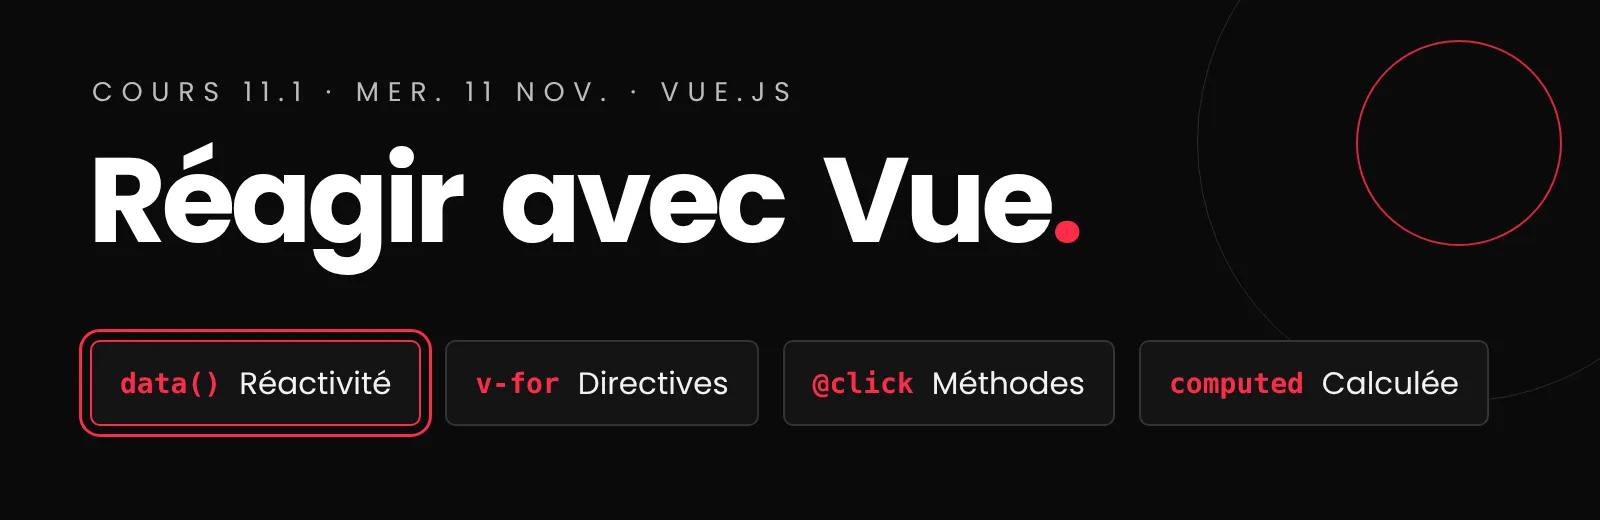
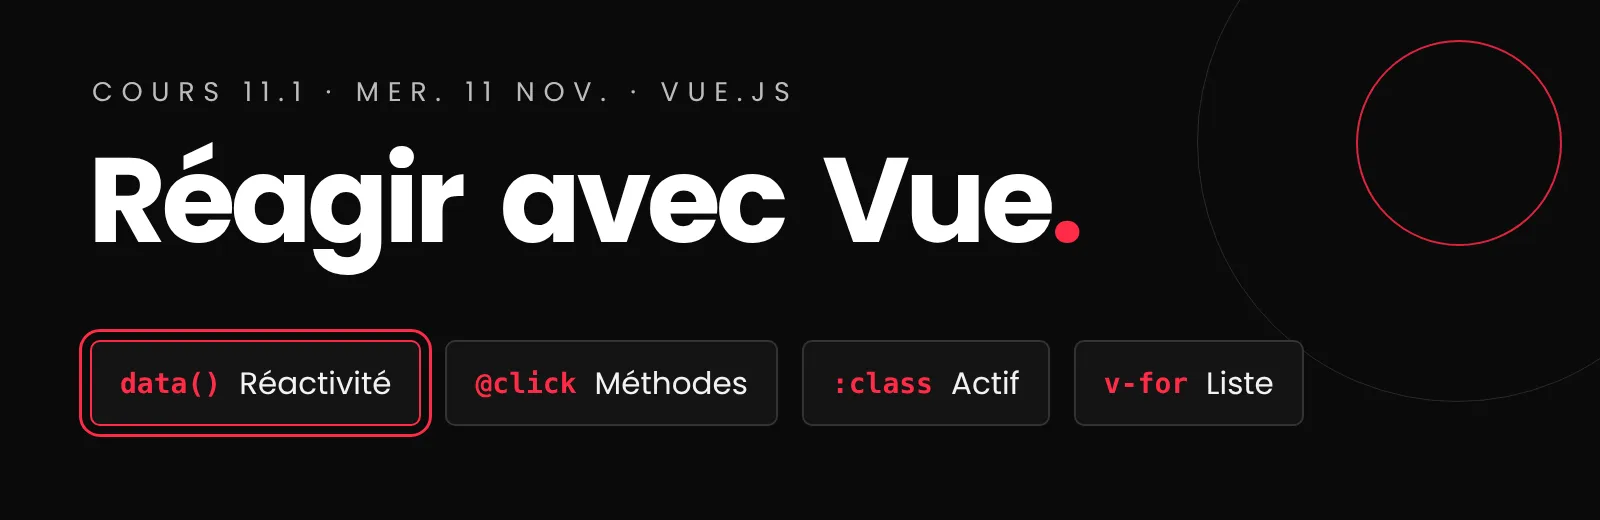
réduction de vue

diff --git a/docs/582-511-web5/projets/recit-defilant/composant-vue.md b/docs/582-511-web5/projets/recit-defilant/composant-vue.md
@@ -4,7 +4,7 @@
 <p class="essentiel__titre">L'essentiel en 3 points</p>
 
 1. Avec Vue, **on change une donnée, et la page suit**. Plus besoin d'ajouter ou de retirer des classes à la main : on décrit le HTML une fois, Vue le tient à jour.
-2. Votre composant tient dans **un seul fichier**, `js/navigation.js`, avec quatre parties : `data`, `computed`, `methods` et `mounted`.
+2. Votre composant tient dans **un seul fichier**, `js/navigation.js`, avec trois parties : `data`, `methods` et `mounted`.
 3. Il fonctionne aux deux phases : à la *phase 1*{ .w5-phase .w5-phase-1 }, la liste des chapitres est **lue dans le HTML**; à la *phase 2*{ .w5-phase .w5-phase-2 }, elle vient de **`data.json`**. Le composant, lui, ne change pas.
 
 </div>
@@ -25,6 +25,8 @@ function setActive(index) {
   title.textContent = chapters[index].titre;
 }
 ```
+
+<iframe src="https://tim-montmorency.com/Fragment/v/?f=w5-vue-oubli-actif&onglets=js,html,css,resultat&modifiable=1&boutons=rejouer,ouvrir" style="width:100%;height:520px;border:0" loading="lazy"></iframe>
 
 Voyez-vous l'oubli? La classe `actif` n'est jamais retirée des anciens liens. Après trois chapitres, trois liens sont en rouge. C'est le piège du code qui dit *comment* : chaque chose qu'on ajoute, il faut aussi penser à l'enlever.
 
@@ -64,7 +66,6 @@ Le composant vit dans une **zone** de `index.html`, ici `<div id="navigation">`.
 
   <!-- Le navigateur de chapitres -->
   <nav class="chapitres-nav" aria-label="Chapitres">
-    <p class="chapitres-nav__actuel">{{ activeTitle }}</p>
     <ol>
       <li v-for="(chapter, index) in chapters" :key="chapter.id">
         <a :href="'#' + chapter.id"
@@ -83,7 +84,7 @@ Ce HTML contient tout ce qu'il faut savoir de Vue pour votre composant :
 
 | Dans le HTML | Nom | Ce que ça fait |
 |---|---|---|
-| `{{ activeTitle }}` | Interpolation | Affiche la valeur d'une donnée. Quand elle change, le texte change. |
+| `{{ chapter.titre }}` | Interpolation | Affiche la valeur d'une donnée. Quand elle change, le texte change. |
 | `v-for="... in chapters"` | Directive `v-for` | Répète l'élément pour chaque chapitre du tableau. C'est le `forEach` de Vue, directement dans le HTML. |
 | `:key="chapter.id"` | Clé | Un identifiant unique par élément répété : Vue s'en sert pour s'y retrouver. |
 | `:class="{ actif: ... }"` | Classe dynamique | Ajoute la classe `actif` **si** la condition est vraie, et la retire sinon. |
@@ -102,7 +103,7 @@ Le CSS qui va avec `v-cloak`, dans `commun.css` :
 }
 ```
 
-## Le JavaScript : un fichier, quatre parties { #js }
+## Le JavaScript : un fichier, trois parties { #js }
 
 Le composant, au complet, dans `js/navigation.js` :
 
@@ -121,16 +122,7 @@ export function createNavigation(chapters) {
       };
     },
 
-    // 2. Les propriétés calculées : déduites des données
-    computed: {
-      activeTitle() {
-        const chapter = this.chapters[this.activeIndex];
-        return `${this.activeIndex + 1}/${this.chapters.length} · `
-          + chapter.titre;
-      },
-    },
-
-    // 3. Les méthodes : les actions
+    // 2. Les méthodes : les actions
     methods: {
       goTo(id) {
         const reduced = window.matchMedia(
@@ -158,7 +150,7 @@ export function createNavigation(chapters) {
       },
     },
 
-    // 4. Au démarrage du composant
+    // 3. Au démarrage du composant (à copier tel quel)
     mounted() {
       window.addEventListener("scroll", this.updateScroll, {
         passive: true,
@@ -169,37 +161,23 @@ export function createNavigation(chapters) {
 }
 ```
 
-### Les quatre parties, une à une { #quatre-parties }
+### Les trois parties, une à une { #quatre-parties }
 
 **`createApp({...}).mount("#navigation")`** crée le composant et le **branche** sur la zone `#navigation` du HTML. Le sélecteur fonctionne comme avec `querySelector`.
 
 **`data()`** retourne un objet : **les données qui peuvent changer**. Chaque fois que `activeIndex` ou `progress` change, Vue met à jour tout ce qui en dépend dans le HTML. Vous ne touchez jamais au DOM vous-même.
 
-**`computed`** : des valeurs **déduites** des données. `activeTitle` dépend de `activeIndex` : Vue la recalcule seulement quand `activeIndex` change. Dans le HTML, on l'utilise comme une donnée : `{{ activeTitle }}`, sans parenthèses.
-
 **`methods`** : les **actions**, appelées par un événement (`@click`) ou par votre code. Dans une méthode, `this.chapters`, `this.activeIndex` : ce sont les données de `data()`.
 
-**`mounted()`** s'exécute **une fois**, quand le composant est branché sur la page. C'est le bon endroit pour écouter le défilement. On appelle aussi `updateScroll()` tout de suite, pour le cas où la page est déjà défilée au chargement.
+**`mounted()`** s'exécute **une fois**, quand le composant est branché sur la page. C'est le bon endroit pour écouter le défilement. On appelle aussi `updateScroll()` tout de suite, pour le cas où la page est déjà défilée au chargement. Ce bloc, vous pouvez le copier tel quel.
 
 !!! warning "`this` dans Vue : pas de fonction fléchée dans `methods`"
-    Dans `data`, `computed` et `methods`, `this` désigne **le composant**. Écrivez donc vos méthodes avec la forme courte `goTo(id) { ... }`, jamais `goTo: (id) => { ... }` : une [fonction fléchée](../../js/recap-js.md#fonctions-flechees) n'a pas son propre `this`, et `this.chapters` serait `undefined`.
+    Dans `data` et `methods`, `this` désigne **le composant**. Écrivez donc vos méthodes avec la forme courte `goTo(id) { ... }`, jamais `goTo: (id) => { ... }` : une [fonction fléchée](../../js/recap-js.md#fonctions-flechees) n'a pas son propre `this`, et `this.chapters` serait `undefined`.
 
     À l'intérieur d'une méthode, par contre, la fonction fléchée est la bonne : dans le `forEach` de `updateScroll()`, elle **garde** le `this` du composant.
 
 !!! info "Une classe JS, en plus guidé"
     Vous connaissez les classes JavaScript : des propriétés (`this.score`), des méthodes, un constructeur. Le composant Vue, c'est la même idée : `data()` pour les propriétés, `methods` pour les méthodes, `mounted()` pour le démarrage.
-
-## La propriété calculée : pourquoi pas une méthode? { #computed }
-
-On aurait pu écrire une méthode `getActiveTitle()` et l'appeler dans le HTML : `{{ getActiveTitle() }}`. Ça fonctionne aussi. La différence :
-
-| | Méthode | Propriété calculée |
-|---|---|---|
-| Recalculée | à **chaque** mise à jour de la page | **seulement** quand ses données changent |
-| Dans le HTML | `{{ getActiveTitle() }}` | `{{ activeTitle }}` |
-| Sert à | **faire** quelque chose (une action) | **obtenir** une valeur déduite |
-
-Règle simple : si ça **retourne une valeur** à afficher, c'est une propriété calculée. Si ça **fait** quelque chose, c'est une méthode.
 
 ## Brancher le composant dans `main.js` { #brancher }
 
@@ -274,39 +252,56 @@ Un point de départ, à mettre à votre image : votre palette, votre typographie
 
 La barre utilise `transform: scaleX()` plutôt que `width` : `transform` ne recalcule pas la mise en page, l'animation reste fluide.
 
+## Pour aller plus loin : une propriété calculée (facultatif) { #computed }
+
+Pour afficher le titre du chapitre actif, par exemple « 3/8 · Le loup », ajoutez une **propriété calculée** : une valeur **déduite** des données, que Vue recalcule seulement quand elles changent.
+
+```js
+    computed: {
+      activeTitle() {
+        const chapter = this.chapters[this.activeIndex];
+        return `${this.activeIndex + 1}/${this.chapters.length} · `
+          + chapter.titre;
+      },
+    },
+```
+
+```html
+<p class="chapitres-nav__actuel">{{ activeTitle }}</p>
+```
+
+Dans le HTML, on l'utilise comme une donnée, sans parenthèses. Voir [Propriété calculée](../../vue/propriete-calculee.md).
+
+
+
+Pourquoi pas une méthode? On aurait pu écrire une méthode `getActiveTitle()` et l'appeler dans le HTML : `{{ getActiveTitle() }}`. Ça fonctionne aussi. La différence :
+
+| | Méthode | Propriété calculée |
+|---|---|---|
+| Recalculée | à **chaque** mise à jour de la page | **seulement** quand ses données changent |
+| Dans le HTML | `{{ getActiveTitle() }}` | `{{ activeTitle }}` |
+| Sert à | **faire** quelque chose (une action) | **obtenir** une valeur déduite |
+
+Règle simple : si ça **retourne une valeur** à afficher, c'est une propriété calculée. Si ça **fait** quelque chose, c'est une méthode.
+
 ## Votre composant à vous { #votre-composant }
 
 Le composant imposé, c'est **le navigateur de chapitres ou la barre de progression**, au choix. La personne responsable est inscrite dans la matrice du cahier de charges.
 
 Prenez le code de cette page comme **départ**, puis faites-le vôtre :
 
-- **Navigateur seulement?** Retirez la barre et `progress`. **Barre seulement?** Une propriété calculée comme `percent` (« 38 % ») peut afficher la progression en texte.
+- **Navigateur seulement?** Retirez la barre et `progress`. **Barre seulement?** Retirez la liste, et gardez `progress`.
 - **Le style** : des points plutôt que des titres, des numéros de chapitre, une icône par chapitre (ajoutez une clé dans vos chapitres).
-- **Sur mobile** : le navigateur prend de la place. Affichez seulement `activeTitle`, et la liste au toucher (`v-if`, une donnée `isOpen`).
+- **Sur mobile** : le navigateur prend de la place. Affichez seulement le chapitre actif, et la liste au toucher (`v-if`, une donnée `isOpen`).
 
-Dans tous les cas, votre composant utilise **une donnée**, **une directive**, **une méthode** et **une propriété calculée** : c'est ce que vous devrez expliquer à la défense.
+Dans tous les cas, votre composant utilise **une donnée**, **une directive** (`v-for` ou `:class`) et **une méthode** : c'est ce que vous devrez expliquer à la défense.
 
 !!! tip "Avec ScrollTo, une extension GSAP"
     Dans `goTo()`, vous pouvez remplacer `scrollIntoView()` par [ScrollTo](../../js/gsap-scrollto.md) : il tient compte des sections épinglées, et la durée et l'*easing* se règlent. Chargez le plugin par CDN et enregistrez-le dans `main.js`.
 
 ## Options API et Composition API { #options-composition }
 
-Vue s'écrit de deux façons. Dans ce cours, on utilise **l'Options API** : des cases à remplir (`data`, `methods`...). Vous croiserez l'autre, la **Composition API**, dans la documentation et les tutoriels :
-
-```js
-// La même idée, en Composition API (pour reconnaître, pas à utiliser)
-const { createApp, ref, computed } = Vue;
-
-createApp({
-  setup() {
-    const activeIndex = ref(0);
-    const activeTitle = computed(() => `Chapitre ${activeIndex.value + 1}`);
-    return { activeIndex, activeTitle };
-  },
-}).mount("#navigation");
-```
-
-Les deux font exactement la même chose. Dans la [documentation de Vue](https://fr.vuejs.org/guide/introduction.html){ :target="_blank" }, choisissez **Options** dans le sélecteur *Préférence d'API*, en haut à gauche.
+Vue s'écrit de deux façons. Dans ce cours, on utilise **l'Options API** : des cases à remplir (`data`, `methods`...). Dans la [documentation de Vue](https://fr.vuejs.org/guide/introduction.html){ :target="_blank" }, choisissez **Options** dans le sélecteur *Préférence d'API*, en haut à gauche. Un tutoriel écrit avec `setup()` ou `ref()`? C'est la Composition API : cherchez-en un autre.
 
 ## Les erreurs fréquentes { #erreurs }
 

diff --git a/docs/582-511-web5/cours11a.md b/docs/582-511-web5/cours11a.md
@@ -11,23 +11,23 @@
 <div class="grid" markdown>
 
 <div class="card" markdown>
-:simple-vuedotjs: __Exercice : Tableau NBA__
-
----
-
-Votre première app Vue : des pointages, deux clics, une propriété calculée.
-
-[:octicons-arrow-right-24: L'exercice](exercices/ex-vue-nba/index.md){ .stretched-link }
-</div>
-
-<div class="card" markdown>
 :simple-vuedotjs: __Exercice : Collection de films__
 
 ---
 
-Une classe dynamique, puis une boucle `v-for` : un élément actif dans une liste.
+Les 4 notions de votre composant : données, clic, classe dynamique et `v-for`.
 
 [:octicons-arrow-right-24: L'exercice](exercices/ex-vue-films/index.md){ .stretched-link }
+</div>
+
+<div class="card" markdown>
+:material-animation-play-outline: __Vos chapitres__
+
+---
+
+Le plus gros du cours : animer vos chapitres pour le prototype.
+
+[:octicons-arrow-right-24: *Phase 1* : vos animations](projets/recit-defilant/arborescence-recit-defilant.md#fichier-chapitre){ .stretched-link }
 </div>
 
 <div class="card" markdown>
@@ -45,11 +45,9 @@ Une démo de 60 secondes de votre récit, sur votre poste. Rien à déposer.
 ## Aujourd'hui
 
 - [ ] Vos exercices GSAP : auto-validés et poussés sur `main`
-- [ ] Vue.js : pourquoi un cadriciel
-- [ ] Les principes de Vue : un tour des pages-sujets
-- [ ] Exercice : Tableau NBA
-- [ ] Exercice : Collection de films
-- [ ] Dans votre projet : vos chapitres, pour le prototype de vendredi
+- [ ] Vue.js : pourquoi, et les 4 notions de votre composant (20 min)
+- [ ] Exercice : Collection de films (45 min)
+- [ ] Dans votre projet : vos chapitres, pour le prototype de vendredi (le reste du cours)
 
 ## 1. :simple-vuedotjs:  Vue.js : pourquoi un cadriciel?
 
@@ -60,40 +58,32 @@ Un navigateur de chapitres se fait aussi en JavaScript seul. Vue est là pour de
 
 [:simple-vuedotjs: Pourquoi Vue, ici?](projets/recit-defilant/composant-vue.md#pourquoi){ .md-button }
 
-## 2. :material-book-open-variant:  Les principes de Vue { #principes }
+## 2. :material-book-open-variant:  Les 4 notions de votre composant { #principes }
 
-Avant de construire, un tour des idées de Vue. Chaque principe a sa page-sujet, avec des exemples à modifier : relisez-les après le cours, à votre rythme.
+Pour votre navigateur de chapitres, vous avez besoin de **4 notions**, pas plus. Chacune a sa page-sujet, avec des exemples à modifier : relisez-les après le cours, à votre rythme.
 
-!!! info "Une seule façon d'écrire Vue dans ce cours : l'Options API"
-    Dans la documentation, vous croiserez aussi la Composition API. Choisissez **Options** dans le sélecteur *Préférence d'API*, en haut à gauche de la [documentation de Vue](https://fr.vuejs.org/guide/introduction.html){ :target="_blank" }.
-
-    [:simple-vuedotjs: Intro à Vue.js](vue/index.md){ .md-button }
-
-**1. L'app** : `createApp()` crée l'app, et `mount()` la branche sur **une zone** du HTML. Vue contrôle cette zone, rien d'autre.
+**1. Les données et l'interpolation** : `createApp()` crée l'app sur une zone du HTML, `data()` contient ce qui peut changer, et `{{ }}` l'affiche. Quand la donnée change, le texte change : c'est la **réactivité**.
 
 [:simple-vuedotjs: Création d'une app](vue/creation-app.md){ .md-button }
-
-**2. Les données et l'interpolation** : `data()` contient ce qui peut changer, et `{{ }}` l'affiche. Quand la donnée change, le texte change : c'est la **réactivité**.
-
 [:simple-vuedotjs: Interpolation](vue/interpolation.md){ .md-button }
 
-**3. Les directives** : des attributs spéciaux dans le HTML. `v-for` répète un élément, `v-if` l'affiche ou non, `:class` ajoute une classe selon une condition.
-
-[:simple-vuedotjs: Boucle `v-for`](vue/boucle.md){ .md-button }
-[:simple-vuedotjs: Conditions `v-if`](vue/condition.md){ .md-button }
-[:simple-vuedotjs: Classe dynamique](vue/classe-dynamique.md){ .md-button }
-
-**4. Les méthodes et les événements** : `@click` appelle une **méthode**, une action du composant.
+**2. Les méthodes et le clic** : `@click` appelle une **méthode**, une action du composant.
 
 [:simple-vuedotjs: Méthodes et événements](vue/methodes-evenements.md){ .md-button }
 
-**5. La propriété calculée** : une valeur **déduite** des données, recalculée seulement quand elles changent.
+**3. La classe dynamique** : `:class` ajoute une classe **si** une condition est vraie. C'est le chapitre actif.
 
-[:simple-vuedotjs: Propriété calculée](vue/propriete-calculee.md){ .md-button }
+[:simple-vuedotjs: Classe dynamique](vue/classe-dynamique.md){ .md-button }
 
-## 3. :material-pencil-ruler:  Pratiquer : deux exercices { #exercices }
+**4. La boucle** : `v-for` répète un élément pour chaque élément d'un tableau. C'est la liste des chapitres.
 
-Seul, dans Classroom 50 : le lien d'acceptation est au début de chaque exercice. Gardez les pages-sujets de la section 2 ouvertes à côté.
+[:simple-vuedotjs: Boucle `v-for`](vue/boucle.md){ .md-button }
+
+Dans la [documentation de Vue](https://fr.vuejs.org/guide/introduction.html){ :target="_blank" }, choisissez **Options** dans le sélecteur *Préférence d'API*, en haut à gauche : c'est la façon d'écrire Vue de ce cours.
+
+## 3. :material-pencil-ruler:  Pratiquer : un exercice { #exercices }
+
+Seul, dans Classroom 50 : le lien d'acceptation est au début de l'exercice. Gardez les pages-sujets de la section 2 ouvertes à côté.
 
 !!! warning "Auto-validez chaque exercice avant de le remettre"
     Chaque exercice se termine par une liste **Vérifiez votre travail**. Avant votre dernier *push*, testez votre page avec cette liste : chaque énoncé doit être vrai.
@@ -107,19 +97,15 @@ Seul, dans Classroom 50 : le lien d'acceptation est au début de chaque exercice
     - [Exercice : Magie](exercices/ex-gsap-magie/index.md#verifier);
     - [Exercice : la magie au défilement](exercices/ex-gsap-magie-defilement/index.md#verifier).
 
-**1. Tableau NBA** (environ 40 min) : `data()`, `{{ }}`, `@click` et les méthodes, puis une propriété calculée.
-
-[:simple-vuedotjs: Exercice : Tableau NBA](exercices/ex-vue-nba/index.md){ .md-button .md-button--primary }
-
-**2. Collection de films** (environ 50 min) : la classe dynamique `:class`, puis la boucle `v-for`. C'est le cœur de votre navigateur de chapitres : un élément actif dans une liste.
+**Collection de films** (environ 45 min) : les 4 notions, dans l'ordre. Les données et le clic (partie A), la classe dynamique (partie B), puis `v-for` (partie C). C'est le cœur de votre navigateur de chapitres : un élément actif dans une liste.
 
 [:simple-vuedotjs: Exercice : Collection de films](exercices/ex-vue-films/index.md){ .md-button .md-button--primary }
 
-Vous finissez tôt? Les défis de chaque exercice, puis vos chapitres. Et pour aller plus loin, facultatif : [Cheese Kanye says](exercices/ex-vue-kanye/index.md), un premier `fetch()` vers une API externe, lancé par une méthode Vue.
+Ensuite, **vos chapitres** : c'est le plus important aujourd'hui. Pour pratiquer Vue plus tard, si vous voulez : [Tableau NBA](exercices/ex-vue-nba/index.md) et [Cheese Kanye says](exercices/ex-vue-kanye/index.md), un premier `fetch()` vers une API externe.
 
 ## 4. :material-account-multiple-outline:  Dans votre projet
 
-**D'abord vos chapitres** : le prototype de vendredi porte sur eux, pas sur Vue.
+**D'abord vos chapitres** : le prototype de vendredi porte sur les animations de vos chapitres, pas sur Vue.
 
 [:material-file-tree: *Phase 1*{ .w5-phase .w5-phase-1 } : vos chapitres en HTML](projets/recit-defilant/arborescence-recit-defilant.md#html-phase-1){ .md-button }
 

diff --git a/docs/582-511-web5/exercices/ex-vue-kanye/index.md b/docs/582-511-web5/exercices/ex-vue-kanye/index.md
@@ -97,4 +97,4 @@ Testez votre page **sans regarder le code**, sauf quand l'énoncé le demande. C
 !!! warning "Pour remettre : un *push* sur `main`"
     Votre exercice est **remis** seulement quand vos *commits* sont **poussés** (*push*) sur la branche `main` de votre dépôt Classroom 50. Un *commit* qui reste sur votre poste, je ne le vois pas.
 
-<small>Exercice adapté de l'exercice du même nom du cours Programmation interactive (582-518), TIM Montmorency. Citations : [Kanye.rest](https://kanye.rest/){ :target="_blank" }.</small>
+<small>Citations : [Kanye.rest](https://kanye.rest/){ :target="_blank" }.</small>

diff --git a/docs/582-511-web5/cours11b.md b/docs/582-511-web5/cours11b.md
@@ -107,8 +107,7 @@ Mercredi, vous avez vu les principes et pratiqué avec deux exercices. Aujourd'h
 - [ ] `:class` : le chapitre actif
 - [ ] `@click` et une méthode : aller au chapitre
 - [ ] `mounted()` : écouter le défilement
-- [ ] `computed` : le titre du chapitre actif
-- [ ] Options API et Composition API : reconnaître l'autre façon
+- [ ] Pour aller plus loin, si on a le temps : `computed`, le titre du chapitre actif
 
 [:simple-vuedotjs: Le composant Vue : la référence complète](projets/recit-defilant/composant-vue.md){ .md-button .md-button--primary }
 

diff --git a/docs/582-511-web5/exercices/ex-vue-films/index.md b/docs/582-511-web5/exercices/ex-vue-films/index.md
@@ -108,4 +108,3 @@ Testez votre page **sans regarder le code**, sauf quand l'énoncé le demande. C
 
 [:simple-vuedotjs: Pour aller plus loin (facultatif) : Cheese Kanye says](../ex-vue-kanye/index.md){ .md-button }
 
-<small>Exercice adapté de l'exercice « Collection de films » (parties 1 et 2) du cours Programmation interactive (582-518), TIM Montmorency.</small>

diff --git a/docs/582-511-web5/exercices/ex-vue-nba/index.md b/docs/582-511-web5/exercices/ex-vue-nba/index.md
@@ -95,4 +95,3 @@ Testez votre page **sans regarder le code**, sauf quand l'énoncé le demande. C
 
 [:simple-vuedotjs: L'exercice suivant : Collection de films](../ex-vue-films/index.md){ .md-button .md-button--primary }
 
-<small>Exercice adapté de l'exercice du même nom du cours Programmation interactive (582-518), TIM Montmorency.</small>
